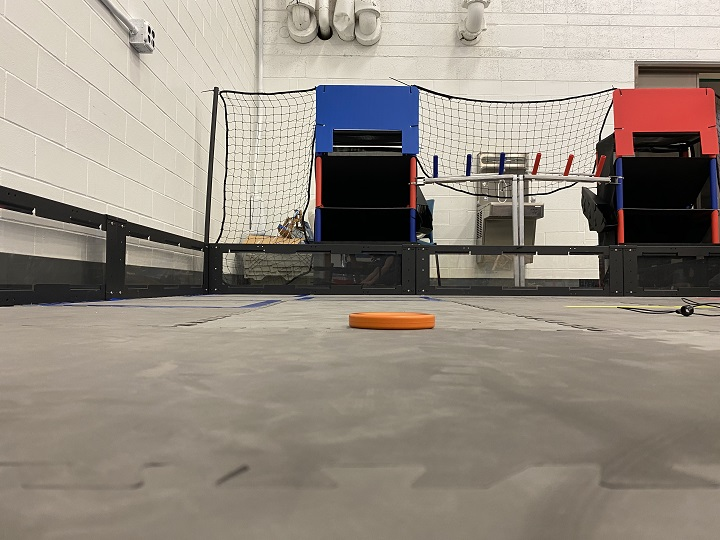
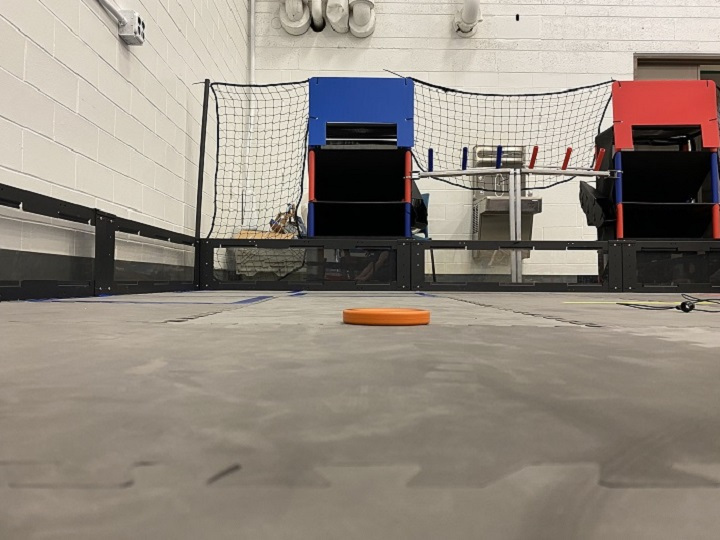
avgHue method returns correct ring stack

diff --git a/identifying_rings.py b/identifying_rings.py
@@ -8,26 +8,68 @@ import imutils
 The Goal is, given images with a stack of 0, 1, or 4, orange rings, the program should be able
 to detect how many rings are in the stack. I attempt to detect using multiple methods (___) and taking an average of the results.
 """
+avgHueResult = -1
+
 
 ap = argparse.ArgumentParser()
 ap.add_argument("-i", "--image", required = True, help = "Path to the image")
 args = vars(ap.parse_args())
+
+
+"""
+Note: The Photo Library I am using is very limited (very few teams have received the game elements),
+so the camera is at different angles in all the trials, but is especially different comparing the
+"no obstacles" images to the "w.obstacles" images. To demonstrate that my OpenCV algorithm which
+detects the average hue works, I use a different crop based on the boolean 'obstacles'. In the real
+robot game, the camera view is adjustable and should be much more consistent.
+"""
+obstacles = True
+if "no obstacles" in args["image"]:
+    obstacles = False
+
+
 image = cv2.imread(args["image"])
 image = imutils.resize(image, newWidth = 720)   #Ensure the image is 720 width so the crop will work
+# cv2.imshow("Original", image)
+original = image.copy()
 
-image = imutils.crop(image, (260, 210), (460, 340))   #Crop image to remove background noise
+image = imutils.crop(image, (270, 220), (450, 330))   #Crop image to remove background noise
 cv2.imshow("Cropped", image)
 
+
+
+#Measure average hue of stack, see if above threshold
+hueTotal = 0
+imageHSVCropped = imutils.crop(original, (340, 270), (420, 320))   #Crop image to remove background noise
+if obstacles:
+    imageHSVCropped = imutils.crop(original, (320, 250), (400, 300))   #Crop image to remove background noise
+for r in range(0, imageHSVCropped.shape[1] - 1):    #Loop through the width of the img
+    for c in range(0, imageHSVCropped.shape[0] - 1):    #Loop through the height of the img
+        (hue, sat, val) = imageHSVCropped[c, r]
+        hueTotal = hueTotal + hue
+hueAvg = hueTotal / (imageHSVCropped.shape[1] * imageHSVCropped.shape[0])
+cv2.imshow("imageHSVCropped", imageHSVCropped)
+print("avg Hue: %d" % hueAvg)
+if hueAvg > 84:
+    avgHueResult = 4
+elif hueAvg > 72:
+    avgHueResult = 1
+else:
+    avgHueResult = 0
+
+
+
 #Turn all non-orange pixels black.
+ringsOnlyImg = image.copy()
 imageHSV = cv2.cvtColor(image, cv2.COLOR_BGR2HSV)
-print("width and height: " + str(imageHSV.shape[1]) + ", " + str(imageHSV.shape[0]))
-for r in range(0, imageHSV.shape[0] - 1, 1):    #Loop through the width of the img (200 is width after crop)
-    for c in range(0, imageHSV.shape[1] - 1, 1):    #Loop through the height of the img
-        (hue, sat, val) = imageHSV[r, c]
-        if hue <= 20 or hue >= 50:
-            print("(%d, %d): %d" % (r, c, hue))
-            image[r, c] = (0, 0, 0)
-cv2.imshow("Rings", image)
+for r in range(0, imageHSV.shape[1] - 1):    #Loop through the width of the img
+    for c in range(0, imageHSV.shape[0] - 1):    #Loop through the height of the img
+        (hue, sat, val) = imageHSV[c, r]
+        if hue < 10 or hue > 18 or sat < 80:
+            ringsOnlyImg[c, r] = (0, 0, 0)
+cv2.imshow("Rings", ringsOnlyImg)
+
+
 
 #Turning into Greyscale and Blurring to prepare for edge detection and contouring
 blurred = cv2.cvtColor(image, cv2.COLOR_BGR2GRAY)
@@ -40,5 +82,8 @@ cv2.imshow("Gaussian (Weighted Mean) Thresh", thresh)
 
 edged = cv2.Canny(image, 30, 150)   #apply edge detection
 cv2.imshow("Edged", edged)
+
+
+#Height to width ratio
 
 cv2.waitKey(0)
